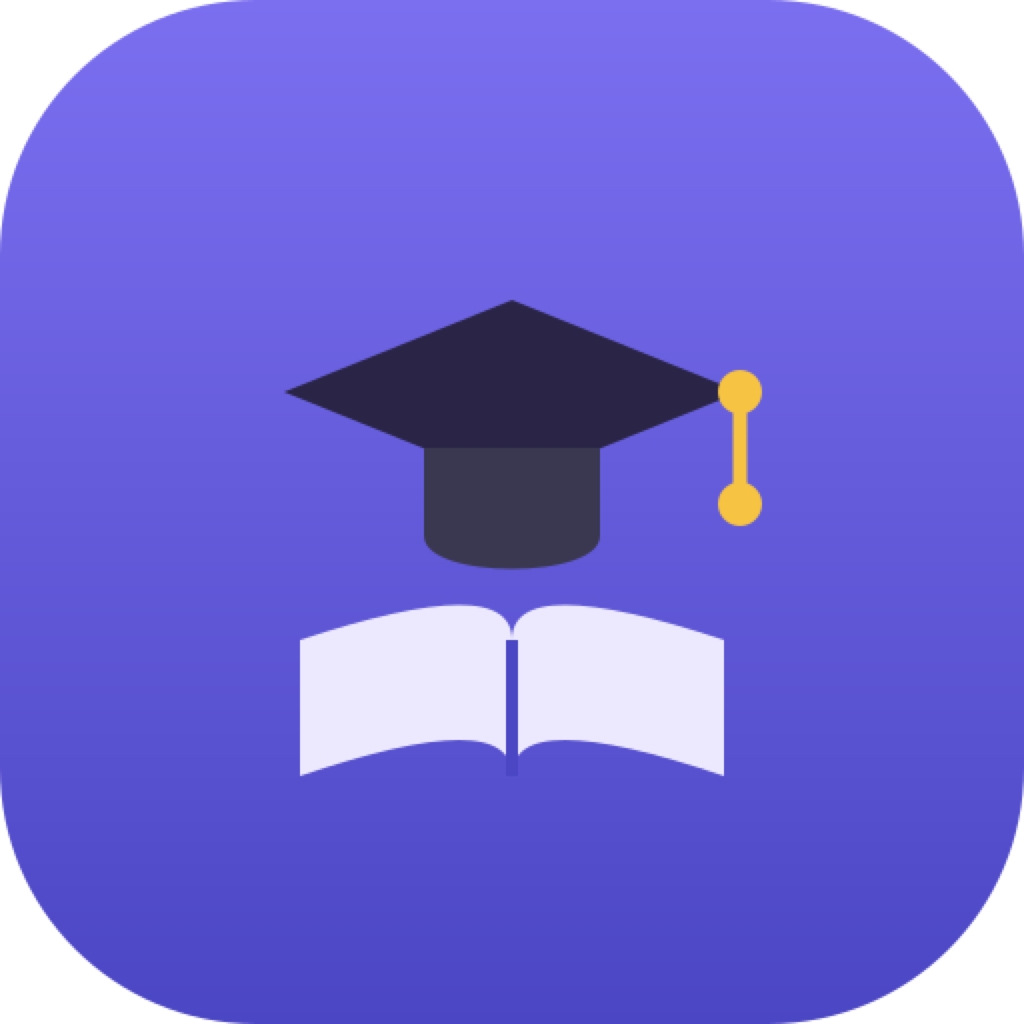
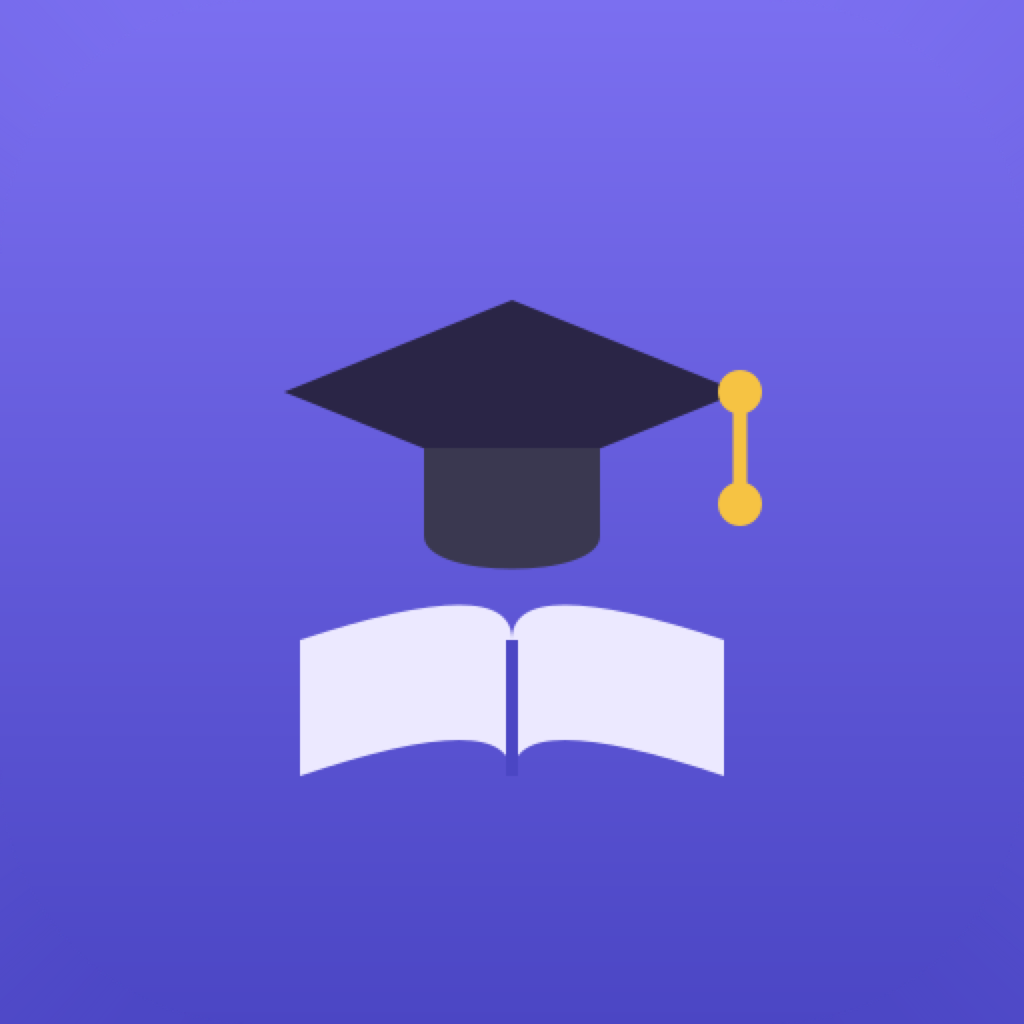
Prepare the ChessSchool v2 store release config.
Keep the New Architecture on, ship an iPhone-only iOS config without microphone access, flatten the iOS icon, and add store listing drafts. Add a qa-apk profile that builds a universal APK from the same HTTPS production config and versionCode as the Play build.

diff --git a/apps/chessschool/store-assets/PLAY_DATA_SAFETY.md b/apps/chessschool/store-assets/PLAY_DATA_SAFETY.md
@@ -1,0 +1,69 @@
+# Play Data safety draft
+
+Answers from what ChessSchool v2 actually does (`apps/chessschool` and the `/v1` API it calls). This is a form draft, not a legal policy.
+
+The app has no analytics SDK, no crash reporter, no ads, and no advertising ID. It does not use the microphone, camera, photos, contacts, or location. Sound is bundled playback only. Reminders are local notifications; the app does not register a push token.
+
+Data is sent only to `https://api.chess-school.in` over HTTPS, and to Google when the learner chooses Google sign-in. Expo's update check contacts Expo (`u.expo.dev`) with the runtime version, platform, and channel. It is not tied to the ChessSchool account.
+
+## Form-level answers
+
+| Question | Answer |
+| --- | --- |
+| Does the app collect or share any of the required user data types? | Yes |
+| Is all of the user data collected by your app encrypted in transit? | Yes |
+| Do you provide a way for users to request that their data be deleted? | Yes. Settings → Delete account calls `DELETE /v1/me` and removes the server account, profile, progress, sessions, and class membership. Progress that exists only on the device stays until "Reset this device". |
+| Account deletion web link | Play asks for a URL. The app deletes in Settings. There is no separate deletion page in this repo. Point the console at the privacy policy only if that page explains deletion; otherwise add a page first. |
+| Ads | No |
+| Data sold | No |
+| Used for tracking (Play's "tracking" definition) | No |
+
+## Data types
+
+| Play data type | Collected | Shared | Ephemeral | Required | Purpose |
+| --- | --- | --- | --- | --- | --- |
+| Personal info → Name | Yes | No | No | Yes for an account; optional for a guest (stored on device) | App functionality, Account management |
+| Personal info → Email address | Yes | No | No | Yes for an email or Google account | App functionality, Account management |
+| Personal info → User IDs | Yes. Account id, and a random guest id created on device (`expo-crypto`) | No | No | Guest id is created for everyone; account id only after sign-in | App functionality, Account management |
+| Personal info → Other info | Yes, optional. "Who is learning": just me, my child with me, or a class I teach. Not a date of birth. | No | No | Optional | App functionality |
+| Personal info → Address, phone, race, political, religious, sexual | No | | | | |
+| Financial info | No | | | | |
+| Health and fitness | No | | | | |
+| Location | No | | | | |
+| Web browsing | No | | | | |
+| Messages | No email or SMS. In-app feedback text is covered under user content below. | | | | |
+| Photos and videos | No | | | | |
+| Audio files | No. The app does not record. | | | | |
+| Files and docs | No | | | | |
+| Calendar | No | | | | |
+| Contacts | No | | | | |
+| App activity → App interactions | Yes. Lessons, puzzles, games, streak, XP, and practice, stored on device and uploaded for a signed-in account (`PUT /v1/progress`) | No | No | Progress is the product | App functionality |
+| App activity → In-app search history | No | | | | |
+| App activity → Installed apps | No | | | | |
+| App activity → Other user-generated content | Yes. Feedback message and mood, class name, class member display names | Class member names are shown to other members of that class. Not sent to a data broker. | No | Optional (feedback and classes) | App functionality |
+| App info → Crash logs | No | | | | |
+| App info → Diagnostics | Only if the learner sends feedback: platform, OS version, theme, piece set, app version. Not collected automatically. | No | No | Optional | App functionality |
+| App info → Other app performance data | No | | | | |
+| Device or other IDs → Advertising ID | No | | | | |
+| Device or other IDs → Device or other IDs | The guest id above is an app-generated UUID, not a hardware or advertising id. Declare it under User IDs, not here, unless the form forces a device-id row. | No | | | |
+
+## Password
+
+The password is sent to create or unlock an email account and stored on the server only as a hash. It is not logged and not sent to analytics. Play's checklist has no separate "password" row; cover it in the privacy policy and do not add a data type that the form does not list.
+
+## IP address
+
+The feedback endpoint rate-limits using the request IP. The IP is not written to the feedback table. Do not declare location. If the form asks about ephemeral processing, say the IP is used only to rate-limit and is not stored.
+
+## Google sign-in
+
+Choosing "Continue with Google" sends a Google ID token to ChessSchool's API. Google receives the sign-in as the identity provider. The app does not use Google for ads. Mark Google as a service provider for authentication, not as a data sale or share for advertising.
+
+## Third parties
+
+| Party | What they receive | Why |
+| --- | --- | --- |
+| ChessSchool API (`api.chess-school.in`) | Account, progress, feedback, classes | The app's own backend |
+| Google | Sign-in, only if the learner chooses it | Authentication |
+| Expo | Runtime version, platform, update channel, on an update check | Delivering an over-the-air update. Not linked to the account. |
+| Apple / Google stores | Whatever the store already collects | Installing the app. Not sent by app code. |

diff --git a/apps/chessschool/README.md b/apps/chessschool/README.md
@@ -1,6 +1,6 @@
 # chessschool (native)
 
-ChessSchool v2 for iOS and Android — Expo SDK 54, Expo Router 6, `newArchEnabled: false`. Same store identity as the published app: `com.chessschool.app`, EAS project `af6d1946-…`, owner `shaileshjha200`, slug `chess-school`, scheme `chessschool`. Version 0.4.0, Android versionCode 30, iOS buildNumber 3.
+ChessSchool v2 for iOS and Android — Expo SDK 54, Expo Router 6, `newArchEnabled: true`. Same store identity as the published app: `com.chessschool.app`, EAS project `af6d1946-…`, owner `shaileshjha200`, slug `chess-school`, scheme `chessschool`. Version 0.4.0, Android versionCode 37, iOS buildNumber 16.
 
 ```bash
 pnpm --filter chessschool sync-assets      # copy store icons from the design package
@@ -10,7 +10,7 @@ pnpm --filter chessschool e2e:android      # Phase 1 walkthrough on a running em
 bash scripts/phase3-android.sh             # Phase 3 checks: Gym, Puzzles, Looks, achievements
 ```
 
-Start Metro without `CI=1` when iterating: `CI=1` turns off file watching, so edits only appear after a Metro restart.
+Start Metro without `CI=1` when iterating: `CI=1` turns off file watching, so edits only appear after a Metro restart. The `10.0.2.2` / `localhost` URLs above are local Metro overrides only. Every EAS profile, including `development`, bakes in `https://api.chess-school.in`, and the native app does not allow cleartext HTTP.
 
 ## Expo Go vs a native build
 
@@ -20,19 +20,25 @@ Everything runs in Expo Go 54 except **Google Sign-In**, which needs `@react-nat
 npx eas-cli build --profile development --platform android
 ```
 
-A native rebuild is also needed after changing Google client IDs or adding native modules. Expo Go warns that it always uses the New Architecture; store builds keep `newArchEnabled: false` as required.
+A native rebuild is also needed after changing Google client IDs or adding native modules. Reanimated 4 and react-native-worklets 0.5.1 require the New Architecture, so `newArchEnabled` is true (top-level and in `expo-build-properties`) for store builds. Expo Go uses the New Architecture as well.
 
 ## Environment (EAS env, not committed)
 
 | Variable | Notes |
 |----------|-------|
-| `EXPO_PUBLIC_API_URL` | The **new** API. Not set in `eas.json` on purpose; without it the app runs fully as an on-device guest |
+| `EXPO_PUBLIC_API_URL` | Every EAS profile sets `https://api.chess-school.in`. Cleartext is off (`android.usesCleartextTraffic: false`). Without the variable the app runs fully as an on-device guest |
 | `EXPO_PUBLIC_GOOGLE_CLIENT_ID` | Web client ID (ID-token audience) — in `eas.json` |
 | `EXPO_PUBLIC_GOOGLE_ANDROID_CLIENT_ID` | Android client (package + SHA-1s from `apps/mobile/RELEASE.md`) |
 
 ## Release
 
-Same pipeline as 0.3.2: `pnpm --filter chessschool build:android:prod` (app-bundle, image sdk-54, medium, autoIncrement, channel production) then `submit:android:internal` (track internal, draft). Not run automatically — store submission happens only when asked, after Phase 2.
+Version codes live in `app.json` (Android versionCode 37, iOS buildNumber 16). `eas.json` uses `appVersionSource: local`, and the production profile does not auto-increment, so a Play build and a `qa-apk` build from this commit ship that same versionCode. Bundle id `com.chessschool.app`. Cleartext HTTP is off on every profile. Preview, production, and `qa-apk` all use `https://api.chess-school.in`.
+
+- Play: `pnpm --filter chessschool build:android:prod` (app-bundle, image sdk-54, medium, channel production) then `submit:android:internal` (track internal, draft).
+- iOS: `pnpm --filter chessschool build:ios:prod` (image sdk-54, medium). Submit profile `production` carries App Store Connect app `6828715695` and Apple Team `ARDSWV5GD2`. No Apple ID or password is stored in the repo.
+- QA smoke APK: `npx eas-cli build --platform android --profile qa-apk`. Same API URL, Google client ids, channel `production`, and versionCode as the Play profile. `buildType` is `apk` (one universal APK, no ABI split) and `distribution` is `internal`, so it can be sideloaded. It is not a submit profile.
+
+Not run automatically — store submission happens only when asked.
 
 ## App icons
 

diff --git a/apps/chessschool/store-assets/APP_STORE_PRIVACY.md b/apps/chessschool/store-assets/APP_STORE_PRIVACY.md
@@ -1,0 +1,48 @@
+# App Store privacy nutrition label draft
+
+Answers from what ChessSchool v2 actually does. No analytics SDK, no crash reporter, no ads, no App Tracking Transparency prompt, no IDFA. The app does not use the microphone, camera, photos, contacts, or location.
+
+Tracking: **No**. Leave "Data Used to Track You" empty.
+
+## Data linked to the user
+
+Collected when the learner creates an account or signs in. Purpose: **App Functionality**. Not used for third-party advertising. Not used for tracking.
+
+| Category | Type | When |
+| --- | --- | --- |
+| Contact Info | Email Address | Email sign-up, or the email Google returns |
+| Contact Info | Name | Sign-up, profile edit, or the name Google returns |
+| Identifiers | User ID | Account id after sign-in |
+| User Content | Gameplay Content | Lessons, puzzles, games, streak, and XP synced for a signed-in account |
+| User Content | Customer Support | Feedback text and mood, only when they send feedback |
+| User Content | Other User Content | Optional "who is learning" (just me, my child with me, or a class I teach), class name, and class member display names |
+
+Class member names are visible to other members of that class. That is part of the feature, not tracking.
+
+## Data not linked to the user
+
+| Category | Type | Purpose | Notes |
+| --- | --- | --- | --- |
+| Identifiers | User ID | App Functionality | Random guest id stored on the device. It is sent with sign-up (to merge guest progress) and with feedback. After sign-in, treat the account as linked data above. A guest who never signs in and never sends feedback keeps this id on device only. |
+| Other Data | Other Diagnostic Data | App Functionality | Expo update check: runtime version, platform, and channel sent to Expo. Not the ChessSchool account. Include this row so the label covers update checks. |
+| Diagnostics | Other Diagnostic Data | App Functionality | Only inside a feedback message: OS version, app version, theme, piece set. Not collected in the background. |
+
+Do **not** check: Health, Financial, Location, Sensitive Info, Contacts, Browsing History, Search History, Purchases, Photos or Videos, Audio Data, Crash Data, Performance Data, Product Interaction (there is no analytics SDK; saved lessons are Gameplay Content), Advertising Data, Device ID (no IDFA, no hardware id).
+
+## Not collected
+
+- Precise or coarse location
+- Microphone or recorded audio
+- Photos, camera, contacts
+- Payment info
+- Crash logs or performance traces
+- Advertising identifier
+- Push notification token (reminders are scheduled locally)
+
+## Deletion
+
+Settings → Delete account removes the server account and synced data. "Reset this device" clears the on-device copy. Say both in App Review notes if asked.
+
+## Encryption
+
+`ios.config.usesNonExemptEncryption` is false. Answer the export question as exempt (HTTPS only).

diff --git a/apps/chessschool/store-assets/APP_STORE_LISTING.md b/apps/chessschool/store-assets/APP_STORE_LISTING.md
@@ -1,0 +1,63 @@
+# App Store listing draft (ChessSchool v2)
+
+Draft only. Do not upload from this folder.
+
+| Field | Value |
+| --- | --- |
+| Name | ChessSchool |
+| Subtitle | Calm daily chess practice |
+| Bundle ID | `com.chessschool.app` |
+| SKU | `com.chessschool.app` |
+| Apple ID (ascAppId) | 6828715695 |
+| Primary category | Education |
+| Secondary category | Games (optional) |
+| Content rights | Does not contain third-party content that needs a license |
+| Age rating | 4+ (no unrestricted web, no gambling, no user-generated public feed). Confirm in the questionnaire. The app is not in the Kids category. |
+| Price | Free |
+| Support URL | https://www.chess-school.in/ |
+| Marketing URL | https://www.chess-school.in/ |
+| Privacy policy URL | https://chess-school.in/privacy |
+| Support email | support@chess-school.in |
+| Copyright | ChessSchool |
+
+Subtitle is 25 characters (limit 30).
+
+## Promotional text (170)
+
+A few calm minutes a day. Short lessons, a daily puzzle, and gentle games against bots. Start as a guest and save progress when you want.
+
+## Keywords (100)
+
+`lessons,puzzles,tactics,endgame,training,beginner,practice,openings,mate,coach`
+
+78 characters. Do not repeat the app name. Commas do not need spaces.
+
+## Description
+
+ChessSchool is a calm place to get a little better at chess, a few minutes a day.
+
+Learn with short lessons on a real board. Cody, the coach, stays with you from the first move through a beginner path you can finish at your own pace.
+
+Practice:
+
+- Daily puzzle, puzzle sprint, and themed puzzles
+- Gym games against bots, with clocks, take-backs, and hints
+- Pass and play for two people on one device
+- Shuffle chess, set positions, and endgame practice
+- Replay a game and look back at your moves
+
+Start as a guest. Create an account when you want your name, streak, and lessons on every device. Sign in with email or Google. Daily reminders stay on this device. Lessons work offline and sync when you are signed in and back online.
+
+No ads. The app does not use the microphone. Club play with friends online is not in this version yet.
+
+## What's New (0.4.0)
+
+Lessons, puzzles, and the Gym: bots, pass and play, clocks, and game review. Themes, piece sets, and app icons. Optional account so progress follows you to another device.
+
+## Review notes
+
+Sign in with email and password, or with Google. A guest can use lessons without an account. Provide a test account in App Review Information. Sign in with Apple is not in this build; see `SIGN_IN_WITH_APPLE.md` before submitting.
+
+Export compliance: the app sets `usesNonExemptEncryption` to false (standard HTTPS only).
+
+iPhone only (`supportsTablet` is false). Do not upload iPad screenshots.

diff --git a/apps/chessschool/store-assets/PLAY_LISTING.md b/apps/chessschool/store-assets/PLAY_LISTING.md
@@ -1,0 +1,52 @@
+# Play Store listing draft (ChessSchool v2)
+
+Draft only. Do not upload from this folder.
+
+| Field | Value |
+| --- | --- |
+| App name | ChessSchool |
+| Package | `com.chessschool.app` |
+| Default language | English |
+| Category | Education |
+| Tags | Education, Brain games |
+| Short description (80) | A few calm minutes a day to get better at chess. |
+| Website | https://www.chess-school.in/ |
+| Email | support@chess-school.in |
+| Privacy policy | https://chess-school.in/privacy |
+
+The in-app privacy row opens `https://chess-school.in/privacy` (no `www`). Use that exact URL in the console.
+
+## Full description
+
+ChessSchool is a calm place to get a little better at chess, a few minutes a day.
+
+Learn with short lessons on a real board. Cody, the coach, stays with you from the first move through a beginner path you can finish at your own pace.
+
+Practice:
+
+- Daily puzzle, puzzle sprint, and themed puzzles
+- Gym games against bots, with clocks, take-backs, and hints
+- Pass and play for two people on one device
+- Shuffle chess, set positions, and endgame practice
+- Replay a game and look back at your moves
+
+Start as a guest. Create an account when you want your name, streak, and lessons on every device. Sign in with email or Google. Daily reminders stay on this device. Lessons work offline and sync when you are signed in and back online.
+
+No ads. No microphone. Club play with friends online is not in this version yet.
+
+## Graphics to upload later
+
+| Asset | Size |
+| --- | --- |
+| High-res icon | 512×512 PNG |
+| Feature graphic | 1024×500 PNG or JPEG |
+| Phone screenshots | See `SCREENSHOTS.md` |
+
+## Store listing notes
+
+- Content rating: complete the IARC questionnaire. Expect Everyone / PEGI 3. The app asks who is learning (just me, my child with me, or a class I teach). It does not collect a date of birth. Do not opt into Designed for Families unless that program is a deliberate choice.
+- Target audience: not a child-directed service. Confirm the age bands in Play Console. Accounts are optional.
+- News app declaration: no.
+- Ads declaration: no. The app has no ad SDK.
+- COVID-19 / government / financial features: no.
+- Reviewer access: provide an email/password test account. Google sign-in also works when the device has Play services.

diff --git a/apps/chessschool/store-assets/SCREENSHOTS.md b/apps/chessschool/store-assets/SCREENSHOTS.md
@@ -1,0 +1,37 @@
+# Screenshot plan
+
+No screenshots are in this folder. Capture them on a device or simulator before upload. Portrait only. The app is locked to portrait and is not an iPad layout (`supportsTablet` is false).
+
+Suggested frames, in order, from the real app:
+
+1. Learn — today's path and daily goal
+2. A lesson, with the board and coach
+3. Puzzles — daily puzzle or sprint
+4. Gym — a bot game or the mode list
+5. Profile — streak, name, and account
+
+## App Store (required)
+
+iPhone only. Apple accepts one set of the required display size, 3 to 10 screenshots.
+
+| Display | Size (portrait) | Required |
+| --- | --- | --- |
+| 6.9-inch (iPhone 16 Pro Max class) | 1320 × 2868 | Yes, if this is the size the console currently requires |
+| 6.7-inch (iPhone 14/15 Plus class) | 1290 × 2796 | Yes, if 6.9-inch is not the required slot |
+| 6.5-inch | 1284 × 2778 | Accepted fallback on older consoles |
+| iPad 13-inch / 12.9-inch | 2064 × 2752 or 2048 × 2732 | No. Do not upload. The binary is iPhone-only. |
+
+Use the slot App Store Connect marks required. One size is enough if the console scales it. PNG or JPEG, RGB, no alpha.
+
+## Play Store (required)
+
+| Asset | Size | Required |
+| --- | --- | --- |
+| Phone screenshots | 1080 × 1920 (9:16). Min short side 320, max long side 3840. 2 to 8 images. | Yes |
+| 7-inch tablet | 1200 × 1920 | No, unless Play asks because the app can be installed on tablets |
+| 10-inch tablet | 1600 × 2560 | No, unless Play asks |
+| Feature graphic | 1024 × 500 | Yes |
+| High-res icon | 512 × 512 PNG | Yes |
+| Promo video | YouTube URL | No |
+
+Android does not have an iPhone-style "tablet unsupported" switch. If Play Console requires tablet shots, capture the same phone UI on a tablet emulator and say the layout is a centered phone column (max width 720). Do not invent a separate tablet design.

diff --git a/apps/chessschool/store-assets/SIGN_IN_WITH_APPLE.md b/apps/chessschool/store-assets/SIGN_IN_WITH_APPLE.md
@@ -1,0 +1,9 @@
+# Sign in with Apple — decision
+
+**Add Sign in with Apple before submitting this binary to App Store review.** It is not in the app today, and this release does not add it.
+
+Guideline 4.8 applies. The iOS production build offers a third-party login for the primary account: "Continue with Google" (`@react-native-google-signin/google-signin`). The production EAS profile sets `EXPO_PUBLIC_GOOGLE_CLIENT_ID` and `EXPO_PUBLIC_GOOGLE_IOS_CLIENT_ID`, and the sign-in screen shows the Google button when that native module is in the binary. Email and password are also offered. Apple still requires an equivalent login when a social login such as Google is offered. Equivalent means the option limits itself to name and email, lets the person hide their email, and does not collect interactions for advertising without consent. Sign in with Apple is the option that meets that bar.
+
+Hiding Google on iOS would also take the binary out of 4.8, because email and password alone do not trigger it. That is a product cut, not the recommendation. The Play build can keep Google sign-in; Play has no 4.8 rule.
+
+Do not ship the iOS build to review until one of those two changes is in the binary. No Apple sign-in code, entitlement, or dependency is added here.
